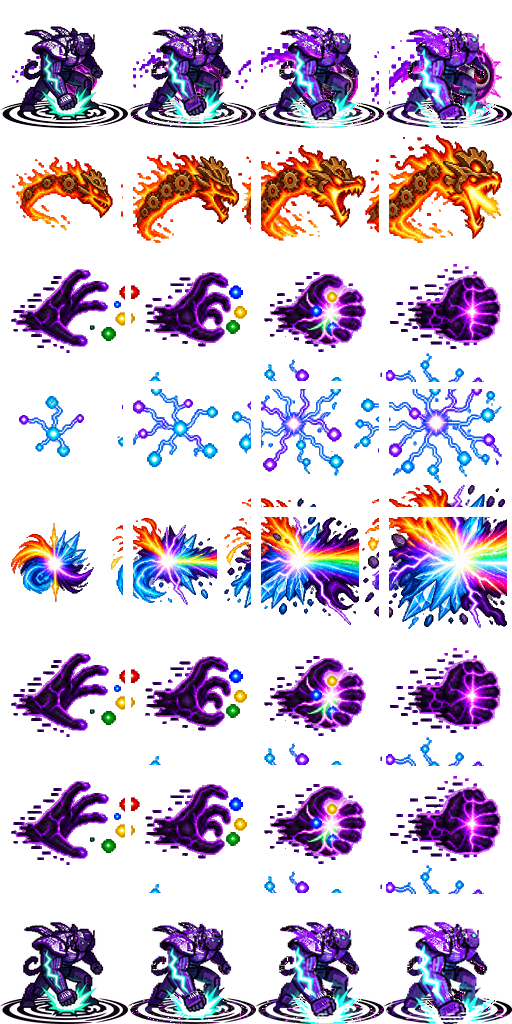
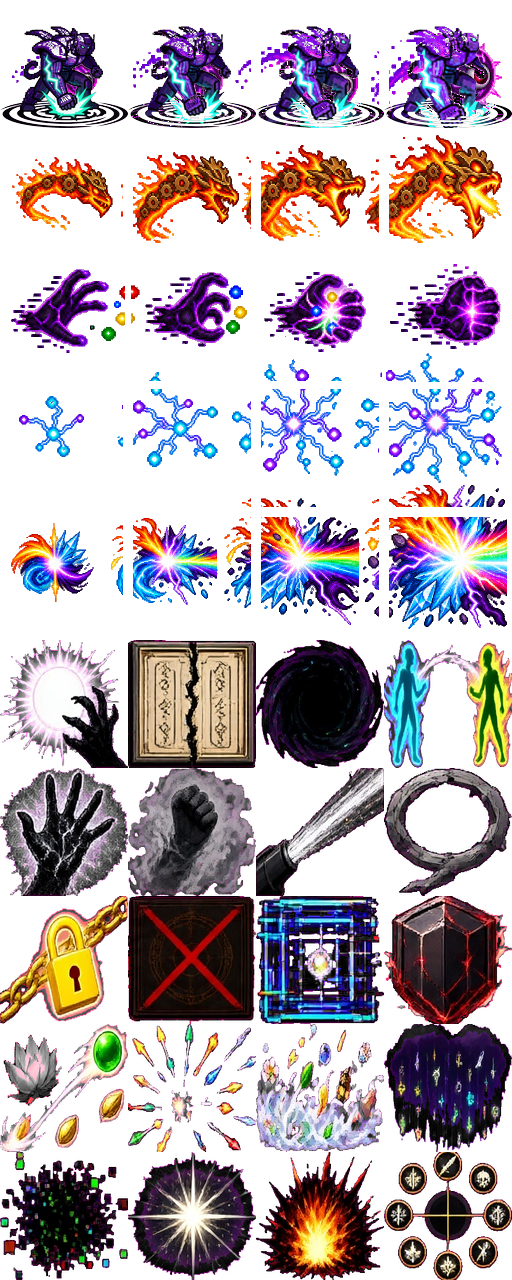
Iales: 10 habilidades com auto-aim, todos os efeitos e atlas 4x10
O Iales agora tem 10 habilidades (era 7). A folha nova de habilidades
(enviada pelo dono) preenche as linhas 5-9 do atlas 4x10 (512x1280):

1. Prompt Teleguiado (shot, auto-aim, drain+vuln)
2. Dragao de Fogo Rust (shot, auto-aim, burn+explode+shock)
3. Ctrl+C dos Poderes (steal, blind+lock+meterSlow)
4. Rede Neural (pillar, auto-aim, shock+poison+chill+bleed)
5. All For One: Merge Total (barrage, auto-aim, vuln+slow+meterBurn)
6. Copy-Paste Remoto (steal)
7. Agarrao Ctrl+C (grabsteal)
8. Virus de Corrupcao (shot, auto-aim, NEW: freeze+poison+chill+bleed)
9. Format C: /IA (blast, auto-aim, NEW: paralyze+vertigo+glitch+
   meterBurn+drain)
10. All For One: Acao Final (afo2, cresce com acumulo, drena medidor,
    cura, aplica todos os status)

EFEITO EXCLUSIVO: 'afo2' — meteoro de braco colossal que cresce com
cada poder acumulado (afo), drena o medidor do rival, cura o Iales e
zera o acumulo. Unico no jogo.

Atlas: 4 cols x 10 rows (512x1280); linhas 0-4 do atlas antigo, linhas
5-9 da folha nova. ART_SHEETS atualizado com rows:10.

Verificacao: todas as 10 habilidades testadas com cast OK e dano
medido (H1 -276, H2 -276 burn, H4 -44 poison, H8 -276 bleed+poison,
H9 -60 glitch, H10 -131).
Cache-buster: v16c-fix -> v17-iales.
Testes: combat/v7/v10/v11/online-server/sprite_audit verdes.

diff --git a/index.html b/index.html
@@ -22,9 +22,9 @@
     })().catch((error) => console.warn('Cache cleanup failed:', error));
   </script>
   <link rel="icon" type="image/png" href="assets/share/favicon.png" />
-  <link rel="stylesheet" href="css/style.css?v=v16c-fix" />
-  <link rel="stylesheet" href="css/account.css?v=v16c-fix" />
-  <link rel="stylesheet" href="css/mobile.css?v=v16c-fix" />
+  <link rel="stylesheet" href="css/style.css?v=v17-iales" />
+  <link rel="stylesheet" href="css/account.css?v=v17-iales" />
+  <link rel="stylesheet" href="css/mobile.css?v=v17-iales" />
 </head>
 <body>
   <div id="loader" role="status" aria-live="polite">
@@ -379,7 +379,7 @@
     </div>
   </div>
 
-  <script src="assets/sprites/layout.js?v=v16c-fix"></script>
+  <script src="assets/sprites/layout.js?v=v17-iales"></script>
   <script>
     /* Blindagem contra layout.js velho em cache: os arquivos de dados
        (fighters-v7..v11) escrevem em SPRITE_LAYOUT.files / .perFighter,
@@ -403,54 +403,54 @@
       }
     })();
   </script>
-  <script src="assets/stages/sheets.js?v=v16c-fix"></script>
-  <script src="assets/maps/anim.js?v=v16c-fix"></script>
-  <script src="js/core/profile.js?v=v16c-fix"></script>
-  <script src="js/config/firebase-config.js?v=v16c-fix"></script>
-  <script src="js/core/cloud.js?v=v16c-fix"></script>
-  <script src="js/config/supabase-config.js?v=v16c-fix"></script>
+  <script src="assets/stages/sheets.js?v=v17-iales"></script>
+  <script src="assets/maps/anim.js?v=v17-iales"></script>
+  <script src="js/core/profile.js?v=v17-iales"></script>
+  <script src="js/config/firebase-config.js?v=v17-iales"></script>
+  <script src="js/core/cloud.js?v=v17-iales"></script>
+  <script src="js/config/supabase-config.js?v=v17-iales"></script>
   <script src="js/vendor/supabase-2.118.0.js"></script>
-  <script src="js/core/supabase-cloud.js?v=v16c-fix"></script>
-  <script src="js/data/fighters.js?v=v16c-fix"></script>
-  <script src="js/data/fighters-v10.js?v=v16c-fix"></script>
-  <script src="js/data/fighters-v11.js?v=v16c-fix"></script>
-  <script src="js/data/powers.js?v=v16c-fix"></script>
-  <script src="js/data/powers-turbo.js?v=v16c-fix"></script>
-  <script src="js/data/powers-v4.js?v=v16c-fix"></script>
-  <script src="js/data/powers-v5.js?v=v16c-fix"></script>
-  <script src="js/data/powers-v6.js?v=v16c-fix"></script>
-  <script src="js/data/powers-balance-v6.js?v=v16c-fix"></script>
-  <script src="js/data/powers-v7.js?v=v16c-fix"></script>
-  <script src="js/data/powers-v8.js?v=v16c-fix"></script>
-  <script src="js/data/powers-v9.js?v=v16c-fix"></script>
-  <script src="js/data/powers-v10.js?v=v16c-fix"></script>
-  <script src="js/data/powers-v11.js?v=v16c-fix"></script>
-    <script src="js/data/fighters-v12.js?v=v16c-fix"></script>
-    <script src="js/data/fighters-v13.js?v=v16c-fix"></script>
-    <script src="js/data/fighters-v14.js?v=v16c-fix"></script>
-    <script src="js/data/fighters-v15.js?v=v16c-fix"></script>
-    <script src="js/data/fighters-v16.js?v=v16c-fix"></script>
-  <script src="js/data/pets.js?v=v16c-fix"></script>
-  <script src="js/data/stages.js?v=v16c-fix"></script>
-  <script src="js/engine/sprites.js?v=v16c-fix"></script>
-  <script src="js/engine/fx.js?v=v16c-fix"></script>
-  <script src="js/engine/audio.js?v=v16c-fix"></script>
-  <script src="js/engine/input.js?v=v16c-fix"></script>
-  <script src="js/ui/viewport.js?v=v16c-fix"></script>
-  <script src="js/engine/projectile.js?v=v16c-fix"></script>
-  <script src="js/engine/fighter.js?v=v16c-fix"></script>
-  <script src="js/engine/weather.js?v=v16c-fix"></script>
-  <script src="js/engine/mechanics.js?v=v16c-fix"></script>
-  <script src="js/engine/stage.js?v=v16c-fix"></script>
-  <script src="js/engine/ai.js?v=v16c-fix"></script>
-  <script src="js/engine/game.js?v=v16c-fix"></script>
+  <script src="js/core/supabase-cloud.js?v=v17-iales"></script>
+  <script src="js/data/fighters.js?v=v17-iales"></script>
+  <script src="js/data/fighters-v10.js?v=v17-iales"></script>
+  <script src="js/data/fighters-v11.js?v=v17-iales"></script>
+  <script src="js/data/powers.js?v=v17-iales"></script>
+  <script src="js/data/powers-turbo.js?v=v17-iales"></script>
+  <script src="js/data/powers-v4.js?v=v17-iales"></script>
+  <script src="js/data/powers-v5.js?v=v17-iales"></script>
+  <script src="js/data/powers-v6.js?v=v17-iales"></script>
+  <script src="js/data/powers-balance-v6.js?v=v17-iales"></script>
+  <script src="js/data/powers-v7.js?v=v17-iales"></script>
+  <script src="js/data/powers-v8.js?v=v17-iales"></script>
+  <script src="js/data/powers-v9.js?v=v17-iales"></script>
+  <script src="js/data/powers-v10.js?v=v17-iales"></script>
+  <script src="js/data/powers-v11.js?v=v17-iales"></script>
+    <script src="js/data/fighters-v12.js?v=v17-iales"></script>
+    <script src="js/data/fighters-v13.js?v=v17-iales"></script>
+    <script src="js/data/fighters-v14.js?v=v17-iales"></script>
+    <script src="js/data/fighters-v15.js?v=v17-iales"></script>
+    <script src="js/data/fighters-v16.js?v=v17-iales"></script>
+  <script src="js/data/pets.js?v=v17-iales"></script>
+  <script src="js/data/stages.js?v=v17-iales"></script>
+  <script src="js/engine/sprites.js?v=v17-iales"></script>
+  <script src="js/engine/fx.js?v=v17-iales"></script>
+  <script src="js/engine/audio.js?v=v17-iales"></script>
+  <script src="js/engine/input.js?v=v17-iales"></script>
+  <script src="js/ui/viewport.js?v=v17-iales"></script>
+  <script src="js/engine/projectile.js?v=v17-iales"></script>
+  <script src="js/engine/fighter.js?v=v17-iales"></script>
+  <script src="js/engine/weather.js?v=v17-iales"></script>
+  <script src="js/engine/mechanics.js?v=v17-iales"></script>
+  <script src="js/engine/stage.js?v=v17-iales"></script>
+  <script src="js/engine/ai.js?v=v17-iales"></script>
+  <script src="js/engine/game.js?v=v17-iales"></script>
   <script src="js/vendor/peerjs.min.js"></script>
-  <script src="js/net/room-core.js?v=v16c-fix"></script>
-  <script src="js/net/online.js?v=v16c-fix"></script>
-  <script src="js/ui/hud.js?v=v16c-fix"></script>
-  <script src="js/ui/ui.js?v=v16c-fix"></script>
-  <script src="js/ui/account.js?v=v16c-fix"></script>
-  <script src="js/main.js?v=v16c-fix"></script>
-  <script src="js/net/tournament.js?v=v16c-fix"></script>
+  <script src="js/net/room-core.js?v=v17-iales"></script>
+  <script src="js/net/online.js?v=v17-iales"></script>
+  <script src="js/ui/hud.js?v=v17-iales"></script>
+  <script src="js/ui/ui.js?v=v17-iales"></script>
+  <script src="js/ui/account.js?v=v17-iales"></script>
+  <script src="js/main.js?v=v17-iales"></script>
+  <script src="js/net/tournament.js?v=v17-iales"></script>
 </body>
 </html>

diff --git a/js/engine/fx.js b/js/engine/fx.js
@@ -5,7 +5,7 @@
    ============================================================ */
 const ART_SHEETS = {
   // habilidades: 4 col x 5 lin, 128px
-  ...Object.fromEntries(['du', 'iales', 'felipinho', 'stack', 'gitmaster', 'bughunter', 'frontend', 'backend', 'devops', 'qa', 'scrum', 'fullstack', 'kotlin', 'hacker', 'java', 'merc', 'bhm', 'xeon', 'urbano', 'qwen', 'dolynho', 'thl', 'lobao']
+  ...Object.fromEntries(['du', 'felipinho', 'stack', 'gitmaster', 'bughunter', 'frontend', 'backend', 'devops', 'qa', 'scrum', 'fullstack', 'kotlin', 'hacker', 'java', 'merc', 'bhm', 'xeon', 'urbano', 'qwen', 'dolynho', 'thl', 'lobao']
     .map((id) => ['abil:' + id, { src: 'assets/abilities/' + id + '.png', size: 128, cols: 4 }])),
   ...Object.fromEntries(['winx-exe', 'nina-vector', 'dandara-query', 'gemini', 'meta', 'mis', 'dev-senior', 'dev-veterano', 'hana', 'cyber-psicopata', 'grika', 'guarda-digital', 'engenheira-prompt', 'odette']
     .map((id) => ['abil:' + id, { src: 'assets/abilities/' + id + '.png', size: 128, cols: 4, rows: 5 }])),
@@ -14,6 +14,8 @@ const ART_SHEETS = {
     .map((id) => ['fx2:' + id, { src: 'assets/fx2/' + id + '.png', size: 64, cols: 4 }])),
   ...Object.fromEntries(['winx-exe', 'nina-vector', 'dandara-query', 'gemini', 'meta', 'mis', 'dev-senior', 'dev-veterano', 'hana', 'cyber-psicopata', 'grika', 'guarda-digital', 'engenheira-prompt', 'odette']
     .map((id) => ['fx2:' + id, { src: 'assets/abilities/' + id + '.png', size: 128, cols: 4, rows: 5 }])),
+  'abil:iales': { src: 'assets/abilities/iales.png', size: 128, cols: 4, rows: 10 },
+  'fx2:iales': { src: 'assets/abilities/iales.png', size: 128, cols: 4, rows: 10 },
   'fx2:dev-senior-electric': { src: 'assets/abilities/dev-senior-electric.png', size: 128, cols: 4, rows: 1 },
   pets: { src: 'assets/pets/pets.png', size: 96, cols: 4 },
   pickups: { src: 'assets/pickups/pickups.png', size: 64, cols: 4 },
@@ -23,7 +25,7 @@ const ART_SHEETS = {
 const Art = {
   images: {},
   url(src) {
-    return src + '?v=v16c-fix';
+    return src + '?v=v17-iales';
   },
   load() {
     Object.entries(ART_SHEETS).forEach(([key, s]) => {

diff --git a/js/data/powers.js b/js/data/powers.js
@@ -32,6 +32,8 @@ const POWERS = {
       { id: 'afo', name: 'All For One: Merge Total', slot: 'ultimate', row: 4, kind: 'barrage', dmg: 7, count: 12, seek: true, finisher: 30, fx: { vuln: 240, slow: 100, meterBurn: 8 }, sfx: 'ultimate', desc: 'Rajada de IAs acumuladas: vulnerável, lento e medidor queimado no finisher.' },
       { id: 'remotesteal', name: 'Copy-Paste Remoto', slot: 'extra', row: 5, kind: 'steal', time: 360, dmg: 6, range: 420, delay: 18, blockable: true, cd: 240, sfx: 'steal', desc: 'Copia temporariamente cinco poderes dentro do alcance. Aviso antes do impacto; bloqueio, esquiva ou sair do alcance impedem o roubo.' },
       { id: 'grabsteal', name: 'Agarrão Ctrl+C', slot: 'extra', row: 6, kind: 'grabsteal', dmg: 12, speed: 20, time: 600, cd: 130, sfx: 'dash', desc: 'Investida limitada: no acerto de perto, atordoa e copia cinco poderes. Pode ser bloqueada ou evitada; errar encerra a investida.' },
+      { id: 'virus', name: 'Vírus de Corrupção', slot: 'extra', row: 8, kind: 'shot', dmg: 16, speed: 8, seek: true, pierce: true, multiHit: 2, cd: 70, fx: { freeze: 100, poison: 200, chill: 120, bleed: 160 }, sfx: 'magic', desc: 'AUTO-AIM: vírus que congela, envenena, desacelera e sangra o alvo.' },
+      { id: 'format', name: 'Format C: /IA', slot: 'extra', row: 9, kind: 'blast', at: 'target', dmg: 34, radius: 240, launch: -12, cd: 120, fx: { paralyze: 50, vertigo: 100, glitch: 160, meterBurn: 12, drain: 0.12 }, sfx: 'ultimate', desc: 'AUTO-AIM: formatação do sistema — paralisia, vertigem, glitch, dreno de vida e medidor queimado.' },
     ],
   },
   felipinho: {

diff --git a/js/engine/sprites.js b/js/engine/sprites.js
@@ -26,8 +26,8 @@ const SpriteGen = {
   url(id) {
     const src = (SPRITE_LAYOUT.files || {})[id] || 'assets/sprites/' + id + '.png';
     // v=... serve pra invalidar cache: SEMPRE bump quando o PNG mudar.
-    // v16c-fix: walk da Guarda sem flip-flop; boneco sem duplo (grika/ash/rin/katya fora) + pulo no ar.
-    return src + '?v=v16c-fix';
+    // v17-iales: Iales com 10 habilidades e atlas 4x10
+    return src + '?v=v17-iales';
   },
   faceUrl(id) {
     return `assets/ui/face-${id}.png?v=spritefix-4x15b`;
